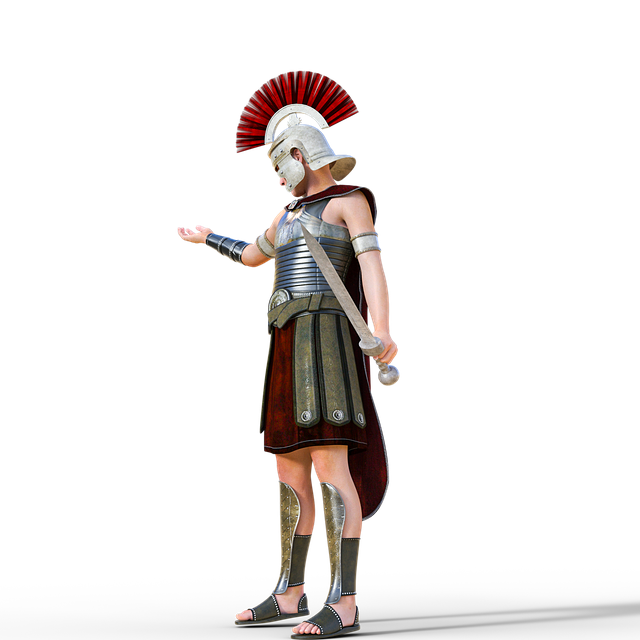
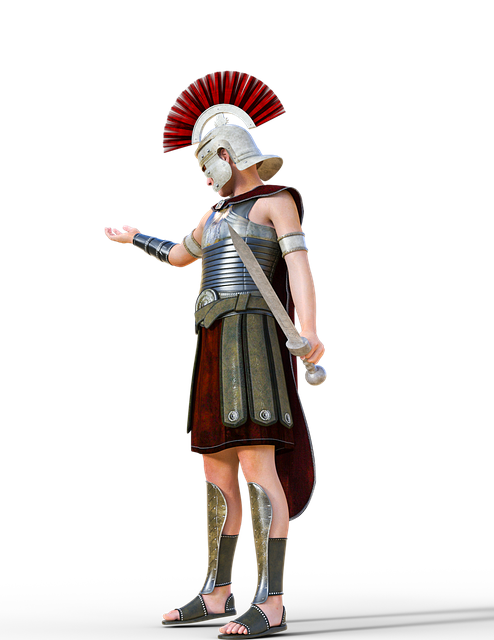
Minor CSS changes and image resizing.

Changed region(s): [[0.2126, 0.0938, 1.0, 1.0]]

diff --git a/assets/css/style.css b/assets/css/style.css
@@ -21,6 +21,7 @@ body {
 .title-text {
 	font-size: 35px;
 	font-weight: bold;
+	margin: 15px 0;
 }
 
 .character-container {
@@ -31,6 +32,7 @@ body {
 .prompt-text {
 	font-size: 25px;
 	text-decoration: underline;
+	margin: 10px 0;
 }
 
 .character-wrapper {
@@ -48,7 +50,11 @@ body {
 
 .character-wrapper img {
 	max-width: 15vw;
-	max-height: 20vh;
+	max-height: 25vh;
+}
+
+.character-wrapper .charater-stats {
+	margin: 50px 0;
 }
 
 
@@ -63,16 +69,16 @@ body {
 }
 
 .combat-log-container {
-	font-size: 14px;
+	font-size: 16px;
 	max-width: 20vw;
 	min-height: 50px;
-	margin: 15px auto;
 	justify-content: center;
+	margin: 15px auto;
 	padding: 5px 5px;
 }
 
-.player-combat-log {
-	margin-top: 10px;
+.player-combat-log, .enemy-combat-log {
+	margin: 5px 0;
 }
 
 #reset-button, #attack-button {

diff --git a/assets/index.html b/assets/index.html
@@ -2,7 +2,7 @@
 <html lang="en">
 <head>
 	<meta charset="UTF-8">
-	<title>RPG Game</title>
+	<title>The Roman Coliseum</title>
 	<link rel="stylesheet" href="css/reset.css">
 	<link rel="stylesheet" href="css/style.css">
 	<meta name="viewport" content="width=device-width, initial-scale=1.0">
